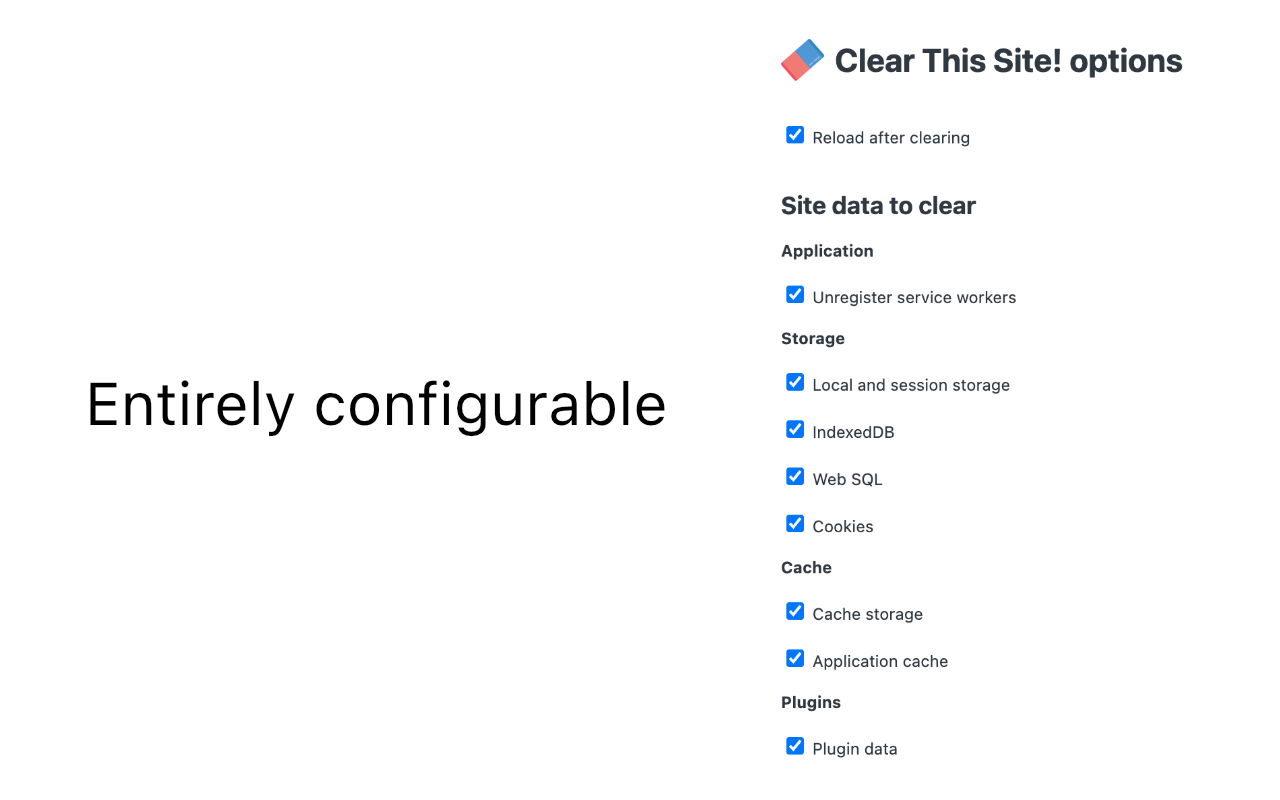
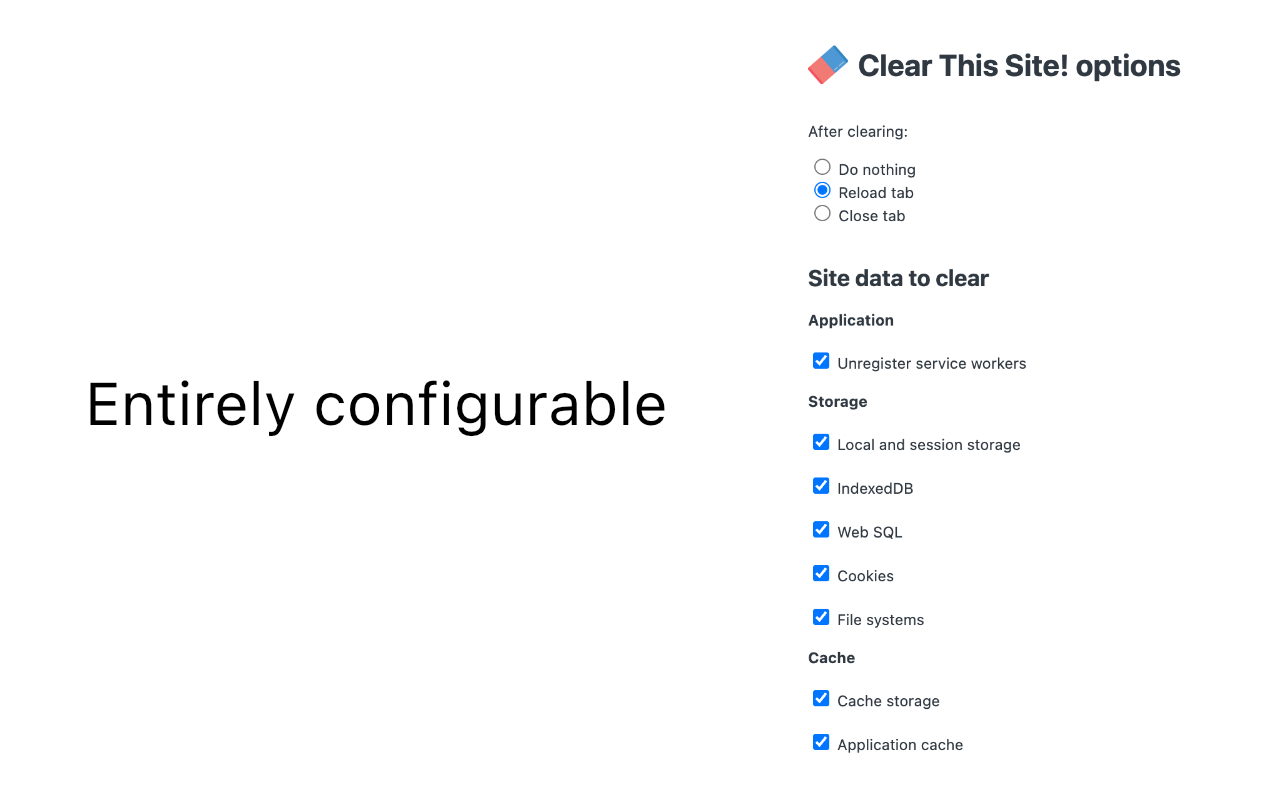
Close tab before clear to prevent reaction
Though this is probably a very rare occurrence, I'm moving the "close tab" option from after the clear to before, to prevent the site from reacting to a data clear.

diff --git a/background.js b/background.js
@@ -63,8 +63,6 @@ function getOrigin(url) {
 async function finish(postAction) {
   if (postAction === POST_ACTION.RELOAD_TAB) {
     await reloadCurrentTab();
-  } else if (postAction === POST_ACTION.CLOSE_TAB) {
-    await closeCurrentTab();
   }
 }
 
@@ -75,6 +73,11 @@ async function getAllStoredOptions() {
 
 async function removeSelectedData(origin) {
   const options = await getAllStoredOptions();
+
+  // Do this first to prevent site from reacting to the deletion
+  if (options.postAction === POST_ACTION.CLOSE_TAB) {
+    await closeCurrentTab();
+  }
 
   await chrome.browsingData.remove({
     origins: [origin]
